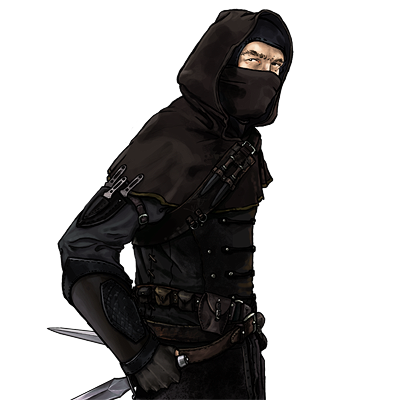
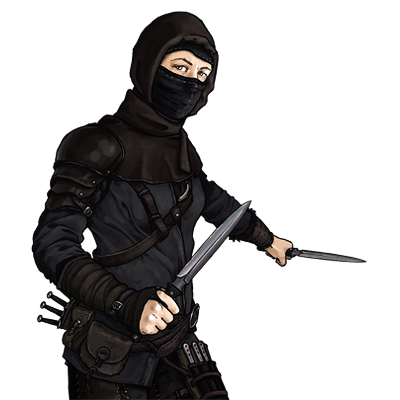
fix:add-sample-composition-script-and-correct-vex-source

diff --git a/samples/compose_samples.py b/samples/compose_samples.py
@@ -1,0 +1,108 @@
+#!/usr/bin/env python3
+"""Compose the RPG Token Maker sample portraits from Battle for Wesnoth art.
+
+This is the script that produced bryn.webp, wren.webp, oren.webp, vex.webp
+and maera.webp. Parameters below are the exact values used.
+
+What it does to each original portrait:
+  1. Finds the head near the top of the transparent portrait and crops a
+     square head-and-shoulders frame around it (zoom / dx / dy per image).
+  2. Paints a new background: a vertical colour gradient, a few blurred
+     coloured light blobs, and a faint noise texture.
+  3. Adds a soft drop shadow behind the figure and composites the figure
+     on top, then saves a 640 x 640 WebP (quality 84).
+
+hero-poster.webp is not made here: it is a snapshot of the live Hero canvas
+(bryn.webp inside the public-domain TheGreatNacho "Iron Bulwark" frame).
+
+Reproducibility: verified to recreate all five published WebP files
+byte-for-byte with Pillow 12.3.0. Other Pillow versions may differ
+slightly in the faint noise layer or WebP encoding.
+
+Requirements: Python 3, Pillow.
+Usage:
+  git clone --depth 1 --filter=blob:none --sparse https://github.com/wesnoth/wesnoth
+  cd wesnoth && git sparse-checkout set data/core/images/portraits && cd ..
+  python3 compose_samples.py wesnoth/data/core/images/portraits out/
+
+Original art: Copyright (C) The Battle for Wesnoth Project, GPL v2 or later.
+Modifications (backgrounds, cropping) and this script: GPL v2 or later.
+"""
+import os
+import random
+import sys
+
+from PIL import Image, ImageDraw, ImageFilter
+
+SIZE = 640
+
+# name, source portrait, gradient top, gradient bottom,
+# light blobs [(cx, cy, radius, rgb, alpha)], zoom, dx, dy
+SAMPLES = [
+    ("wren", "elves/ranger+female", (28, 44, 46), (150, 96, 52),
+     [(.8, .75, .35, (240, 170, 80), 150), (.2, .2, .3, (60, 110, 90), 120)], 1.15, -0.2, 0.02),
+    ("bryn", "dwarves/fighter", (52, 50, 56), (24, 22, 26),
+     [(.25, .2, .35, (220, 140, 60), 110), (.8, .8, .3, (90, 90, 110), 90)], 1.15, 0, 0),
+    ("oren", "humans/mage-silver", (26, 22, 46), (10, 8, 20),
+     [(.7, .25, .32, (140, 110, 230), 120), (.2, .8, .3, (60, 40, 120), 110)], 1.2, -0.11, 0),
+    ("vex", "humans/assassin+female", (46, 32, 22), (14, 10, 8),
+     [(.8, .2, .3, (240, 180, 90), 110), (.2, .7, .35, (90, 30, 30), 90)], 1.2, 0, 0),
+    ("maera", "humans/mage-white+female", (210, 190, 150), (90, 70, 40),
+     [(.5, .1, .4, (255, 245, 210), 160), (.2, .8, .3, (150, 110, 60), 80)], 1.25, 0.32, 0.02),
+]
+
+
+def background(size, top, bottom, blobs):
+    im = Image.new("RGB", (size, size))
+    d = ImageDraw.Draw(im)
+    for y in range(size):
+        t = y / size
+        d.line([(0, y), (size, y)], fill=tuple(int(top[i] + (bottom[i] - top[i]) * t) for i in range(3)))
+    lay = Image.new("RGBA", (size, size), (0, 0, 0, 0))
+    dl = ImageDraw.Draw(lay)
+    for cx, cy, r, col, a in blobs:
+        dl.ellipse([cx * size - r * size, cy * size - r * size, cx * size + r * size, cy * size + r * size], fill=col + (a,))
+    lay = lay.filter(ImageFilter.GaussianBlur(size * 0.08))
+    im = Image.alpha_composite(im.convert("RGBA"), lay)
+    noise = Image.effect_noise((size, size), 40).convert("L").filter(ImageFilter.GaussianBlur(1.2))
+    return Image.blend(im, Image.merge("RGBA", (noise, noise, noise, Image.new("L", (size, size), 255))), 0.05)
+
+
+def head_box(im):
+    """Return the head's horizontal centre, the top of the figure and its height."""
+    a = im.split()[3]
+    x0, y0, x1, y1 = a.getbbox()
+    h = y1 - y0
+    band = a.crop((x0, y0, x1, y0 + int(h * 0.18))).getbbox()
+    return x0 + (band[0] + band[2]) / 2, y0, h
+
+
+def compose(src_path, out_path, top, bottom, blobs, zoom, dx, dy):
+    p = Image.open(src_path).convert("RGBA")
+    cx, y0, h = head_box(p)
+    crop = int(h * 0.78 / zoom)
+    hx, hy = cx + dx * crop, y0 + crop * 0.42 + dy * crop
+    box = (int(hx - crop / 2), int(hy - crop * 0.42), int(hx + crop / 2), int(hy + crop * 0.58))
+    fig = Image.new("RGBA", (crop, crop), (0, 0, 0, 0))
+    fig.paste(p.crop(box), (0, 0))
+    fig = fig.resize((SIZE, SIZE), Image.LANCZOS)
+    out = background(SIZE, top, bottom, blobs)
+    shadow = fig.split()[3].filter(ImageFilter.GaussianBlur(14)).point(lambda v: int(v * .45))
+    out.paste((0, 0, 0, 255), (10, 14), shadow)
+    out = Image.alpha_composite(out, fig)
+    out.convert("RGB").save(out_path, "WEBP", quality=84)
+
+
+def main():
+    if len(sys.argv) != 3:
+        sys.exit(__doc__)
+    portraits, out_dir = sys.argv[1], sys.argv[2]
+    os.makedirs(out_dir, exist_ok=True)
+    for name, src, top, bottom, blobs, zoom, dx, dy in SAMPLES:
+        random.seed(name)
+        compose(os.path.join(portraits, src + ".webp"), os.path.join(out_dir, name + ".webp"), top, bottom, blobs, zoom, dx, dy)
+        print("wrote", name)
+
+
+if __name__ == "__main__":
+    main()
